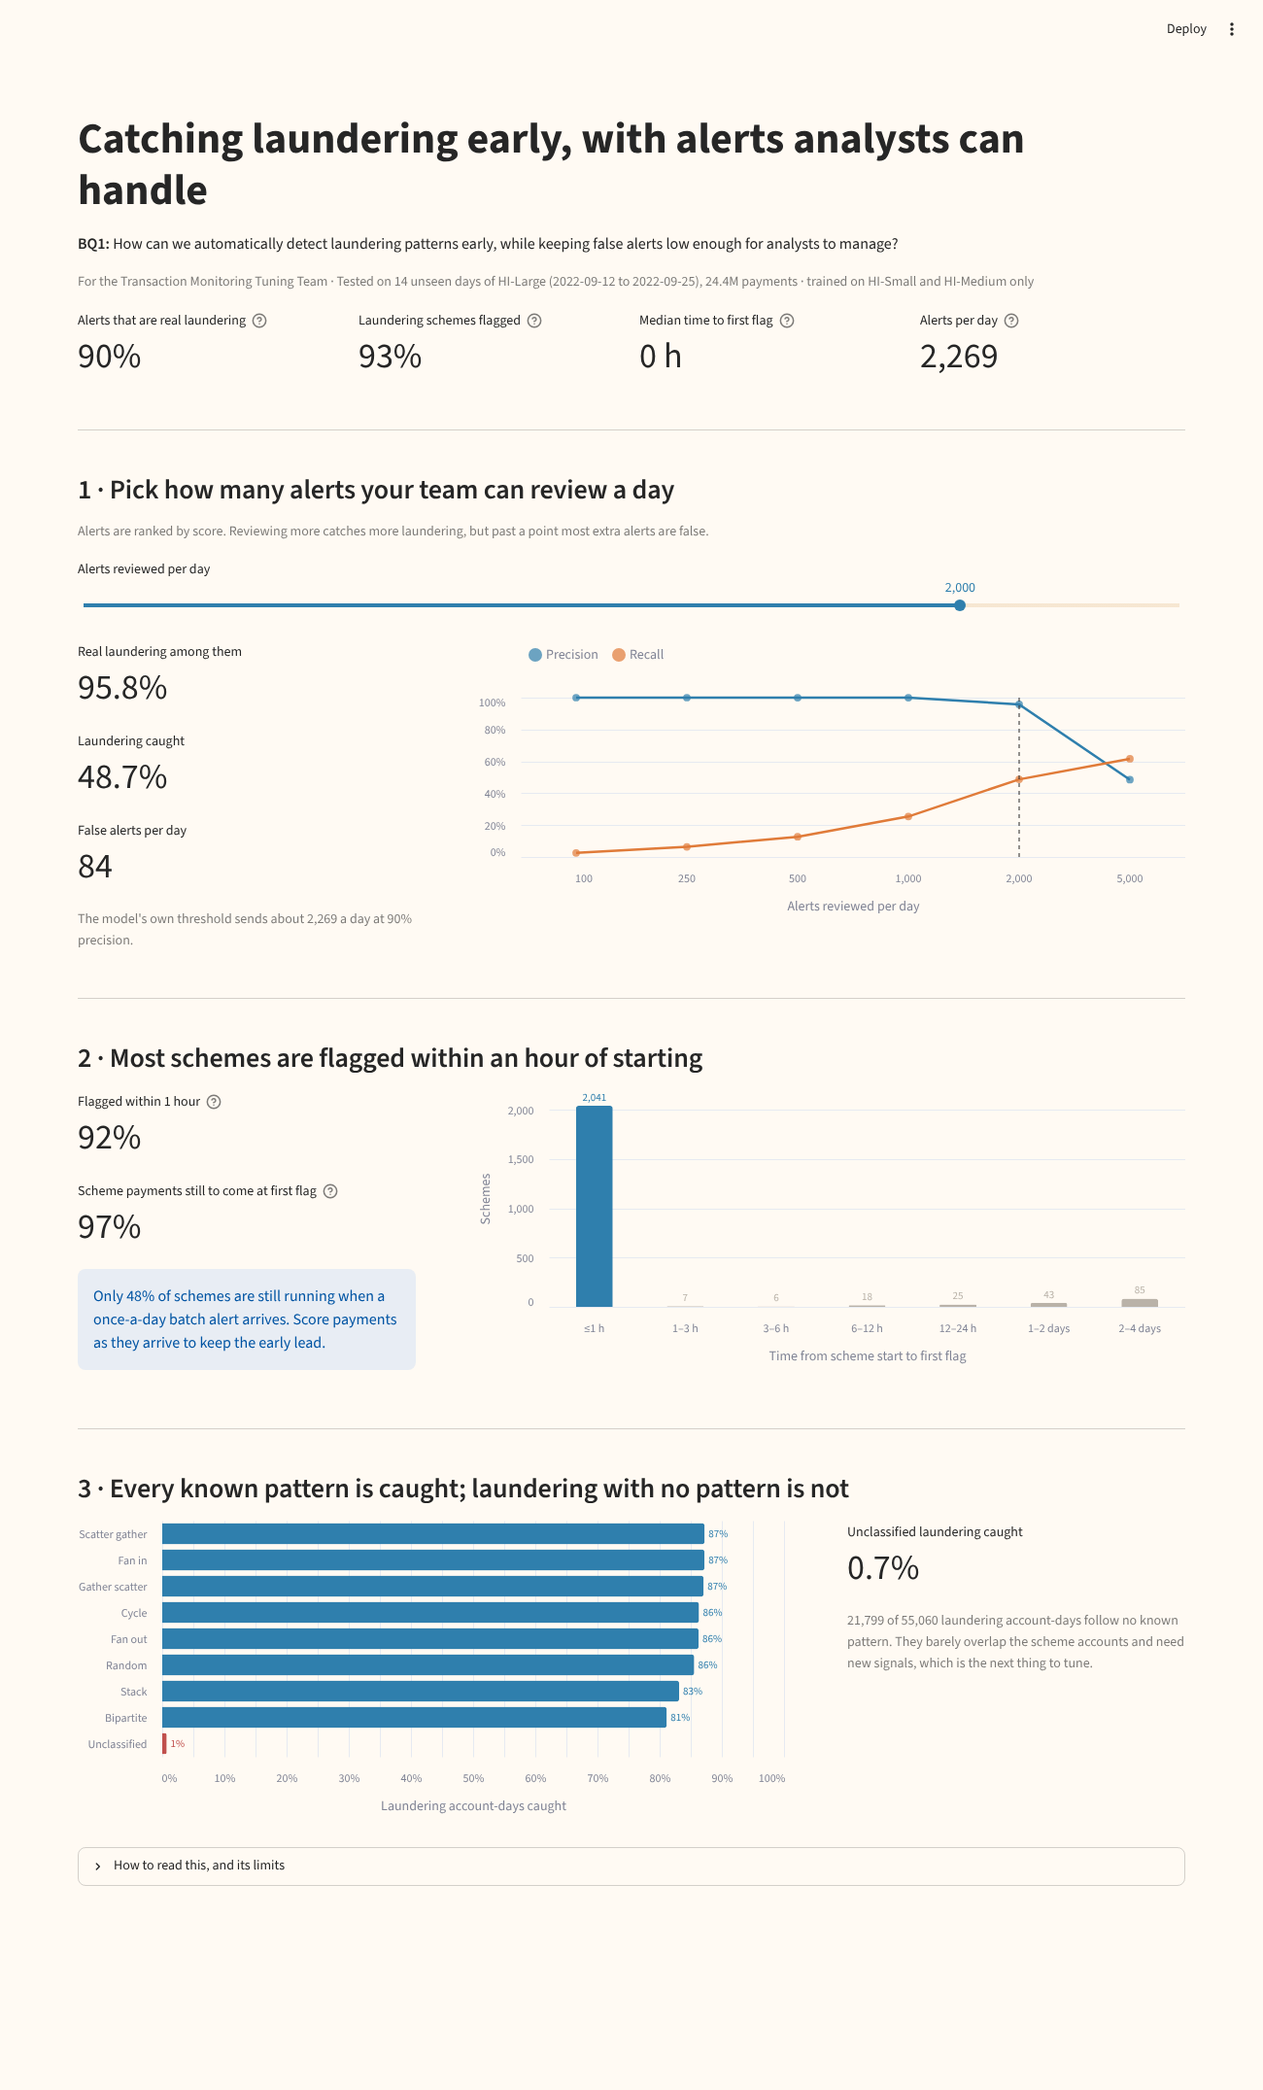
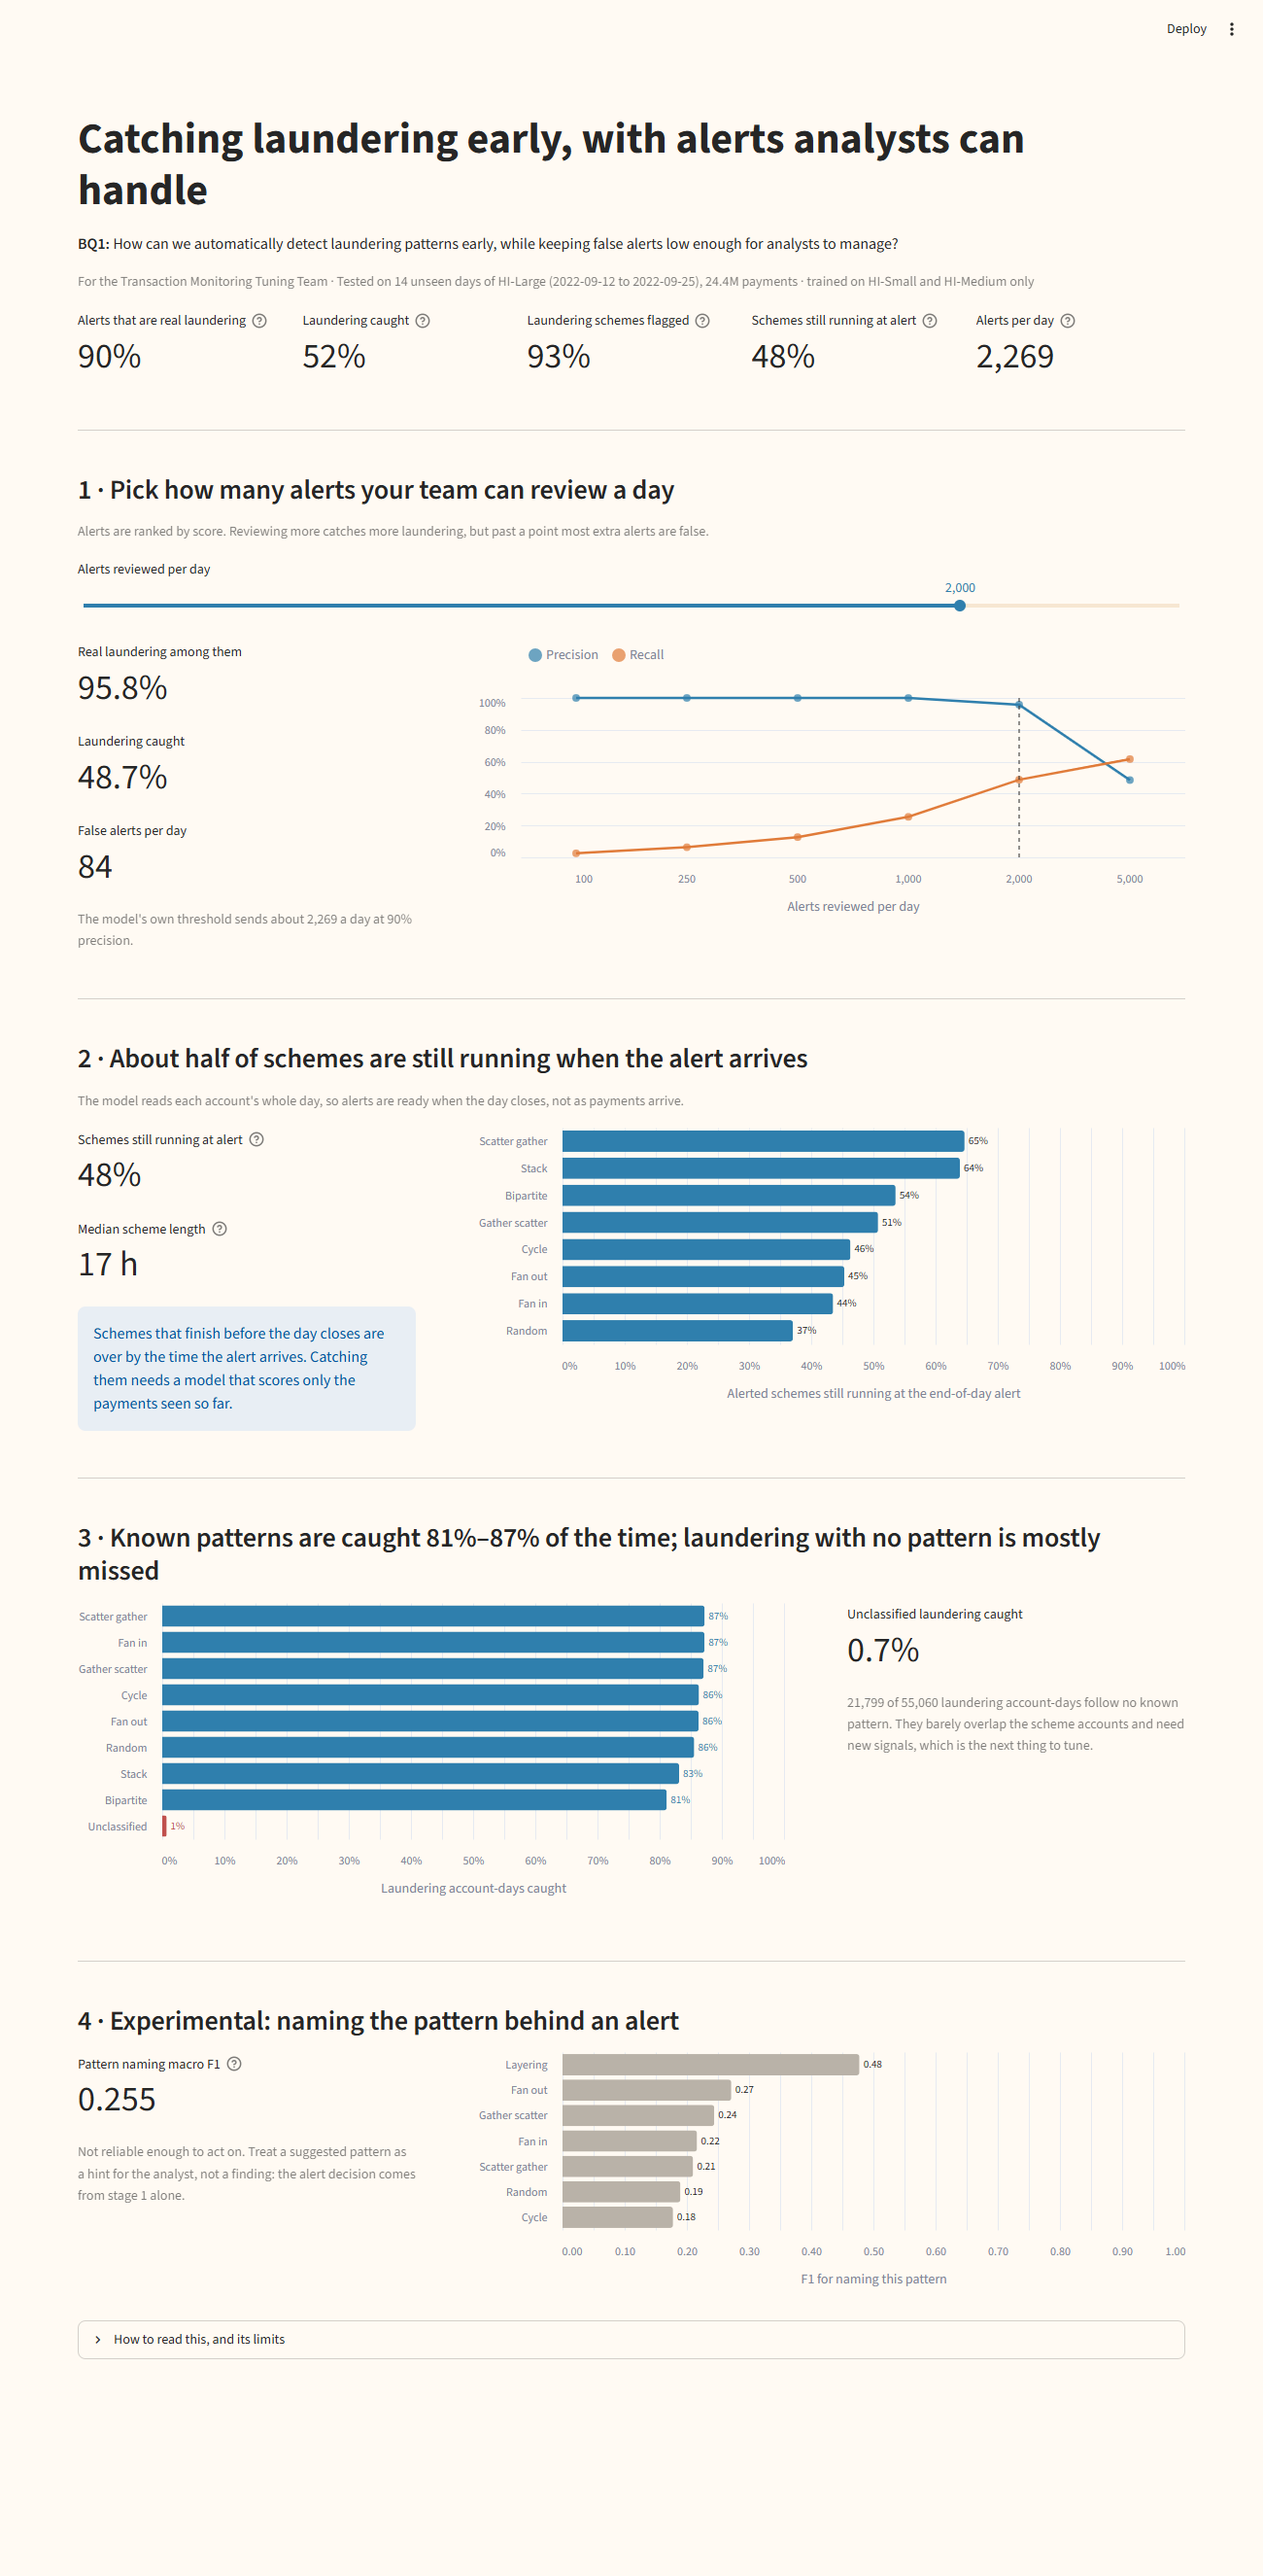
Correct BQ1 dashboard timing and headline claims
Report end-of-day timing instead of same-moment figures, since scores
use whole-day features. Add overall recall, reword the pattern heading,
mark stage 2 as experimental, and note there is no channel breakdown.

diff --git a/app/app_bq1.py b/app/app_bq1.py
@@ -25,9 +25,8 @@ d, s1 = load()
 ad = s1[s1["level"] == "account_day"]
 frozen = ad[ad["cutoff"] == "frozen_threshold"].iloc[0]
 tot = d["schemes_total"]
-hist = pd.DataFrame(d["scheme_hours_hist"])
 caught_n = round(tot["schemes"] * tot["caught"])
-within_1h = int(hist["schemes"].iloc[0])
+running_n = round(tot["schemes"] * tot["alert_before_end_eod"])
 
 # ------------------------------------------------------------------ header
 st.title("Catching laundering early, with alerts analysts can handle")
@@ -41,14 +40,17 @@ st.caption(
     f"{frozen['payments'] / 1e6:.1f}M payments · trained on HI-Small and HI-Medium only"
 )
 
-k1, k2, k3, k4 = st.columns(4)
+k1, k2, k3, k4, k5 = st.columns(5)
 k1.metric("Alerts that are real laundering", f"{frozen['precision']:.0%}",
           help="Precision: of the accounts flagged each day, how many were really laundering.")
-k2.metric("Laundering schemes flagged", f"{tot['caught']:.0%}",
-          help=f"{caught_n:,} of {tot['schemes']:,} schemes that started in the test window.")
-k3.metric("Median time to first flag", f"{tot['median_hours_to_first_flag']:.0f} h",
-          help="From a scheme's first payment to the first payment the model flags.")
-k4.metric("Alerts per day", f"{frozen['alerts_per_day']:,.0f}",
+k2.metric("Laundering caught", f"{frozen['recall']:.0%}",
+          help="Recall: share of laundering account-days that get an alert, including laundering with no known pattern.")
+k3.metric("Laundering schemes flagged", f"{tot['caught']:.0%}",
+          help=f"{caught_n:,} of {tot['schemes']:,} schemes that started in the test window. A scheme counts once "
+               "any one of its payments is flagged, so this is higher than laundering caught.")
+k4.metric("Schemes still running at alert", f"{tot['alert_before_end_eod']:.0%}",
+          help=f"{running_n:,} of {tot['schemes']:,} schemes got their end-of-day alert before their last payment.")
+k5.metric("Alerts per day", f"{frozen['alerts_per_day']:,.0f}",
           help="Accounts flagged per day at the model's threshold; steady day to day.")
 
 st.divider()
@@ -88,36 +90,38 @@ with right:
 st.divider()
 
 # ------------------------------------------------------------------ 2. early
-st.subheader("2 · Most schemes are flagged within an hour of starting")
+st.subheader("2 · About half of schemes are still running when the alert arrives")
+st.caption("The model reads each account's whole day, so alerts are ready when the day closes, not as payments arrive.")
 c1, c2 = st.columns([1, 2], gap="large")
 with c1:
-    st.metric("Flagged within 1 hour", f"{within_1h / caught_n:.0%}", help="Of flagged schemes.")
-    st.metric("Scheme payments still to come at first flag", f"{tot['share_from_first_flag']:.0%}",
-              help="On average, the share of a scheme's payments made at or after its first flag: "
-                   "what acting on the alert could still stop.")
-    st.info(f"Only {tot['alert_before_end_eod']:.0%} of schemes are still running when a once-a-day batch "
-            "alert arrives. Score payments as they arrive to keep the early lead.")
+    st.metric("Schemes still running at alert", f"{tot['alert_before_end_eod']:.0%}",
+              help=f"{running_n:,} of {tot['schemes']:,} schemes. The rest finished first or were never flagged.")
+    st.metric("Median scheme length", f"{tot['median_duration_h']:.0f} h",
+              help="From a scheme's first payment to its last.")
+    st.info("Schemes that finish before the day closes are over by the time the alert arrives. "
+            "Catching them needs a model that scores only the payments seen so far.")
 with c2:
-    names = {"(-0.01, 1.0]": "≤1 h", "(1.0, 3.0]": "1–3 h", "(3.0, 6.0]": "3–6 h", "(6.0, 12.0]": "6–12 h",
-             "(12.0, 24.0]": "12–24 h", "(24.0, 48.0]": "1–2 days", "(48.0, 96.0]": "2–4 days"}
-    h = hist.assign(when=hist["bucket"].map(names), first=lambda t: t.index == 0)
-    bars = alt.Chart(h).mark_bar(cornerRadiusTopLeft=3, cornerRadiusTopRight=3, size=38).encode(
-        x=alt.X("when:N", sort=list(names.values()), title="Time from scheme start to first flag",
-                axis=alt.Axis(labelAngle=0)),
-        y=alt.Y("schemes:Q", title="Schemes"),
-        color=alt.condition("datum.first", alt.value(BLUE), alt.value(GREY)),
-        tooltip=[alt.Tooltip("when:N", title="First flag"), alt.Tooltip("schemes:Q", format=",")])
-    labels = bars.mark_text(dy=-8, color=INK).encode(text=alt.Text("schemes:Q", format=","))
+    sp = pd.DataFrame(d["schemes_by_pattern"])
+    sp["pattern"] = sp["pattern_type"].str.replace("_", " ").str.capitalize()
+    bars = alt.Chart(sp).mark_bar(cornerRadiusEnd=3, size=22, color=BLUE).encode(
+        y=alt.Y("pattern:N", sort="-x", title=None),
+        x=alt.X("alert_before_end_eod:Q", title="Alerted schemes still running at the end-of-day alert",
+                axis=alt.Axis(format="%"), scale=alt.Scale(domain=[0, 1])),
+        tooltip=["pattern:N", alt.Tooltip("alert_before_end_eod:Q", title="Still running", format=".1%"),
+                 alt.Tooltip("median_duration_h:Q", title="Median length (h)", format=".1f")])
+    labels = bars.mark_text(align="left", dx=4, color=INK).encode(text=alt.Text("alert_before_end_eod:Q", format=".0%"))
     st.altair_chart((bars + labels).properties(height=300), width="stretch")
 
 st.divider()
 
 # ------------------------------------------------------------------ 3. where it misses
-st.subheader("3 · Every known pattern is caught; laundering with no pattern is not")
 p = pd.DataFrame(d["patterns"])
 p = p[p["level"] == "account_day"].copy()
 p["pattern"] = p["pattern_label"].str.replace("_", " ").str.capitalize()
 p["weak"] = p["pattern_label"] == "unclassified"
+known = p.loc[~p["weak"], "recall"]
+st.subheader(f"3 · Known patterns are caught {known.min():.0%}–{known.max():.0%} of the time; "
+             "laundering with no pattern is mostly missed")
 pb = alt.Chart(p).mark_bar(cornerRadiusEnd=3, size=22).encode(
     y=alt.Y("pattern:N", sort="-x", title=None),
     x=alt.X("recall:Q", title="Laundering account-days caught", axis=alt.Axis(format="%"),
@@ -135,11 +139,38 @@ with c4:
     st.caption(f"{unc['positives']:,} of {p['positives'].sum():,} laundering account-days follow no known pattern. "
                "They barely overlap the scheme accounts and need new signals, which is the next thing to tune.")
 
+st.divider()
+
+# ------------------------------------------------------------------ 4. pattern naming (experimental)
+st.subheader("4 · Experimental: naming the pattern behind an alert")
+e2e = pd.DataFrame(d["stage2"])
+e2e = e2e[e2e["mode"] == "end_to_end"]
+macro = e2e[e2e["pattern"].str.startswith("MACRO")].iloc[0]
+named = e2e[~e2e["pattern"].str.startswith("MACRO") & (e2e["pattern"] != "unclassified")].copy()
+named["name"] = named["pattern"].str.replace("_", " ").str.capitalize()
+c5, c6 = st.columns([1, 2], gap="large")
+with c5:
+    st.metric("Pattern naming macro F1", f"{macro['f1']:.3f}",
+              help="Average F1 across the 7 named patterns, measured on stage 1's alerts.")
+    st.caption("Not reliable enough to act on. Treat a suggested pattern as a hint for the analyst, "
+               "not a finding: the alert decision comes from stage 1 alone.")
+with c6:
+    nb = alt.Chart(named).mark_bar(cornerRadiusEnd=3, size=22, color=GREY).encode(
+        y=alt.Y("name:N", sort="-x", title=None),
+        x=alt.X("f1:Q", title="F1 for naming this pattern", scale=alt.Scale(domain=[0, 1])),
+        tooltip=["name:N", alt.Tooltip("precision:Q", format=".1%"), alt.Tooltip("recall:Q", format=".1%"),
+                 alt.Tooltip("f1:Q", format=".3f")])
+    nt = nb.mark_text(align="left", dx=4, color=INK).encode(text=alt.Text("f1:Q", format=".2f"))
+    st.altair_chart((nb + nt).properties(height=260), width="stretch")
+
 with st.expander("How to read this, and its limits"):
     st.markdown(
         "- An **alert** is one account on one day. **Precision** = share of alerts that are real laundering; "
         "**recall** = share of laundering that gets an alert.\n"
         "- The threshold was fixed on HI-Small and HI-Medium validation days and never tuned on HI-Large.\n"
         "- Schemes come from the dataset's answer key (`Patterns.txt`), used only to mark results, never as model input.\n"
+        "- Timing assumes alerts are ready at midnight after the day closes. Time-to-flag within a day is not "
+        "reported, because each score uses that day's later payments.\n"
+        "- Results are not broken down by payment channel.\n"
         "- Tested on a two-week window of IBM's synthetic AML data; real banks' volumes and patterns will differ."
     )

diff --git a/README.md b/README.md
@@ -19,9 +19,9 @@ Trained on HI-Small + HI-Medium, tested once on unseen HI-Large (12–25 Sep 202
 | Laundering account-days caught (recall) | 52.0% (85.5% for named patterns, 0.7% for unclassified) |
 | F1 (validation Small / Medium → test Large) | 0.645 / 0.677 → 0.659 |
 | Alerts per day | ~2,269 |
-| Schemes flagged · first flag within 1 h | 93.1% · 91.7% |
-| Scheme payments at or after the first flag | 97.1% |
-| Stage 2 macro F1, end to end | 0.255 (layering 0.478) |
+| Schemes flagged | 93.1% |
+| Schemes still running when the end-of-day alert arrives | 47.8% |
+| Stage 2 macro F1, end to end (experimental) | 0.255 (layering 0.478) |
 
 Full numbers: [`results/final/final_report.txt`](results/final/final_report.txt) and [`results/final/validate_report.txt`](results/final/validate_report.txt).
 
@@ -94,6 +94,8 @@ AWS `credentials`, `.pem` keys, `kaggle.json`. They are listed in `.gitignore`.
 ## Limits
 
 - HI-Large was tested on a two-week window to fit the lab budget.
+- Payments are scored when their day closes, because the features describe the whole day. The `0.0` median hours to first flag and the 97.1% share from first flag in `final_report.txt` assume same-moment scoring, so they are not reported as results.
 - Unclassified laundering (no known pattern) is mostly missed.
-- Stage 2 over-names layering on HI-Large.
+- Stage 2 over-names layering on HI-Large, so its pattern names are experimental hints.
+- Results are not broken down by payment channel.
 - Synthetic data: real banks' volumes and patterns will differ.
